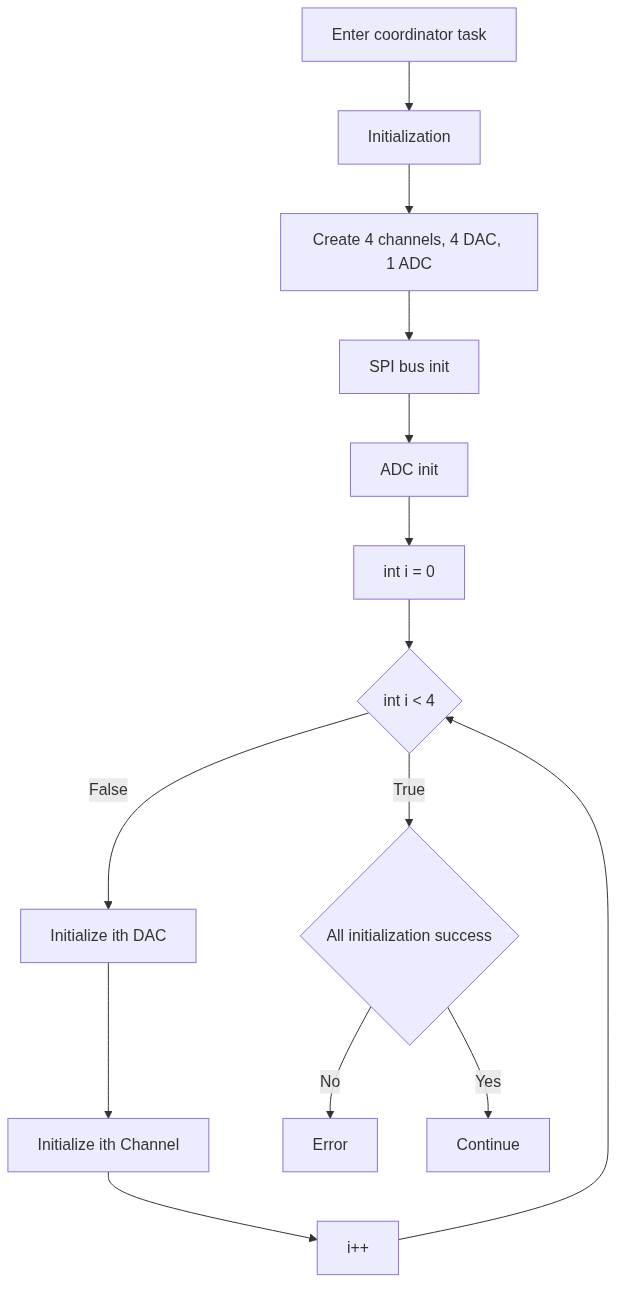
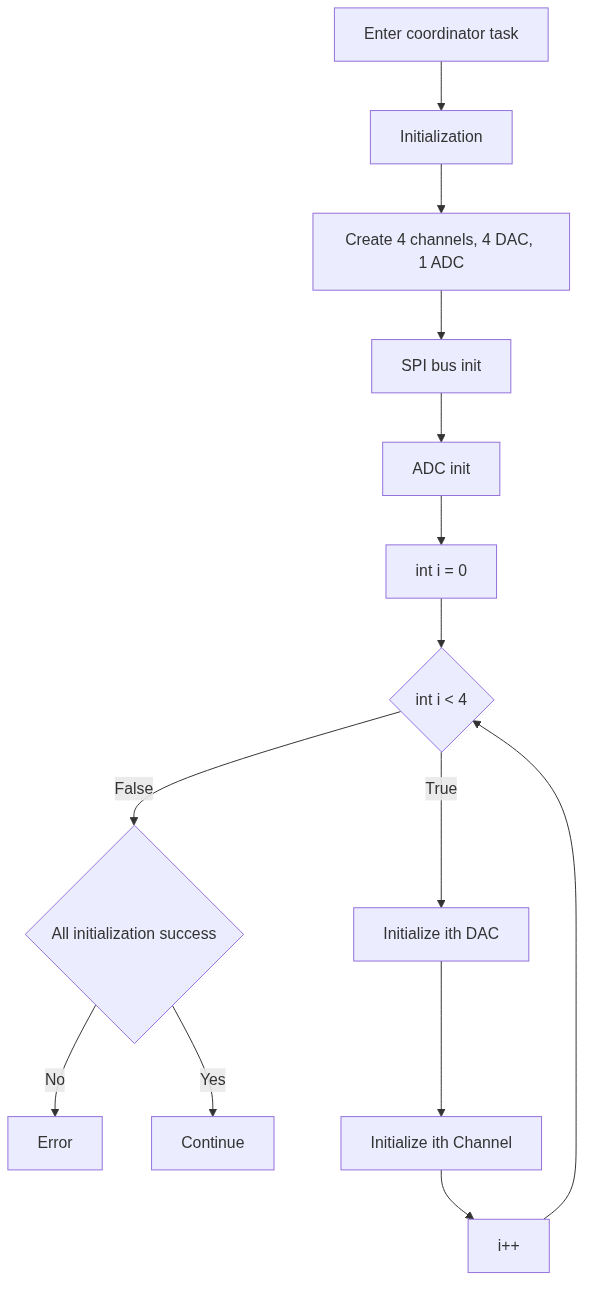
started cpp wrapper

diff --git a/components/driver_hal/include/adc.hpp b/components/driver_hal/include/adc.hpp
@@ -1,0 +1,39 @@
+#pragma once
+
+extern "C" {
+#include "ad717x.h"
+}
+
+#include <cstdint>
+#include "shared_spi_bus.hpp"
+
+constexpr const uint8_t NUM_CHANNELS = 4;
+
+class Adc{
+
+  public:
+    explicit Adc(SharedSpiBus& bus, const SpiDeviceConfig& spi_config){
+      bus_ = bus;
+
+      ad717x_dev dev = {
+
+        .num_regs = NUM_CHANNELS,
+        .useCRC = ad717x_crc_mode(AD717X_USE_CRC),
+        .active_device = ad717x_device_type(ID_AD7172_2),
+        .ref_en = true,
+        .num_channels = NUM_CHANNELS,
+        .mode = CONTINUOUS
+      }
+
+      int32_t yo = AD717X_Init();
+    };  
+
+    static void Adc_task(void* arg);
+    bool init();
+    float readAdcChannel(uint8_t channel);
+
+  private:
+    SharedSpiBus& bus_;
+    const SpiDeviceConfig& spi_config_;
+
+};

diff --git a/components/driver_hal/include/dac.hpp b/components/driver_hal/include/dac.hpp
@@ -1,0 +1,20 @@
+#pragma once
+
+#include <esp_log.h>
+#include <algorithm>
+#include <cmath>
+
+extern "C" {
+#include "ad5761r.h"
+}
+
+#include "ad5761.hpp"
+#include "pin_config.hpp"
+
+class Dac{
+
+  public:
+
+
+  private:
+};

diff --git a/components/driver_hal/adc.cpp b/components/driver_hal/adc.cpp
@@ -1,0 +1,4 @@
+#include "adc.hpp"
+
+
+

diff --git a/components/driver_hal/dac.cpp b/components/driver_hal/dac.cpp
@@ -1,0 +1,4 @@
+#include "dac.hpp"
+
+
+
